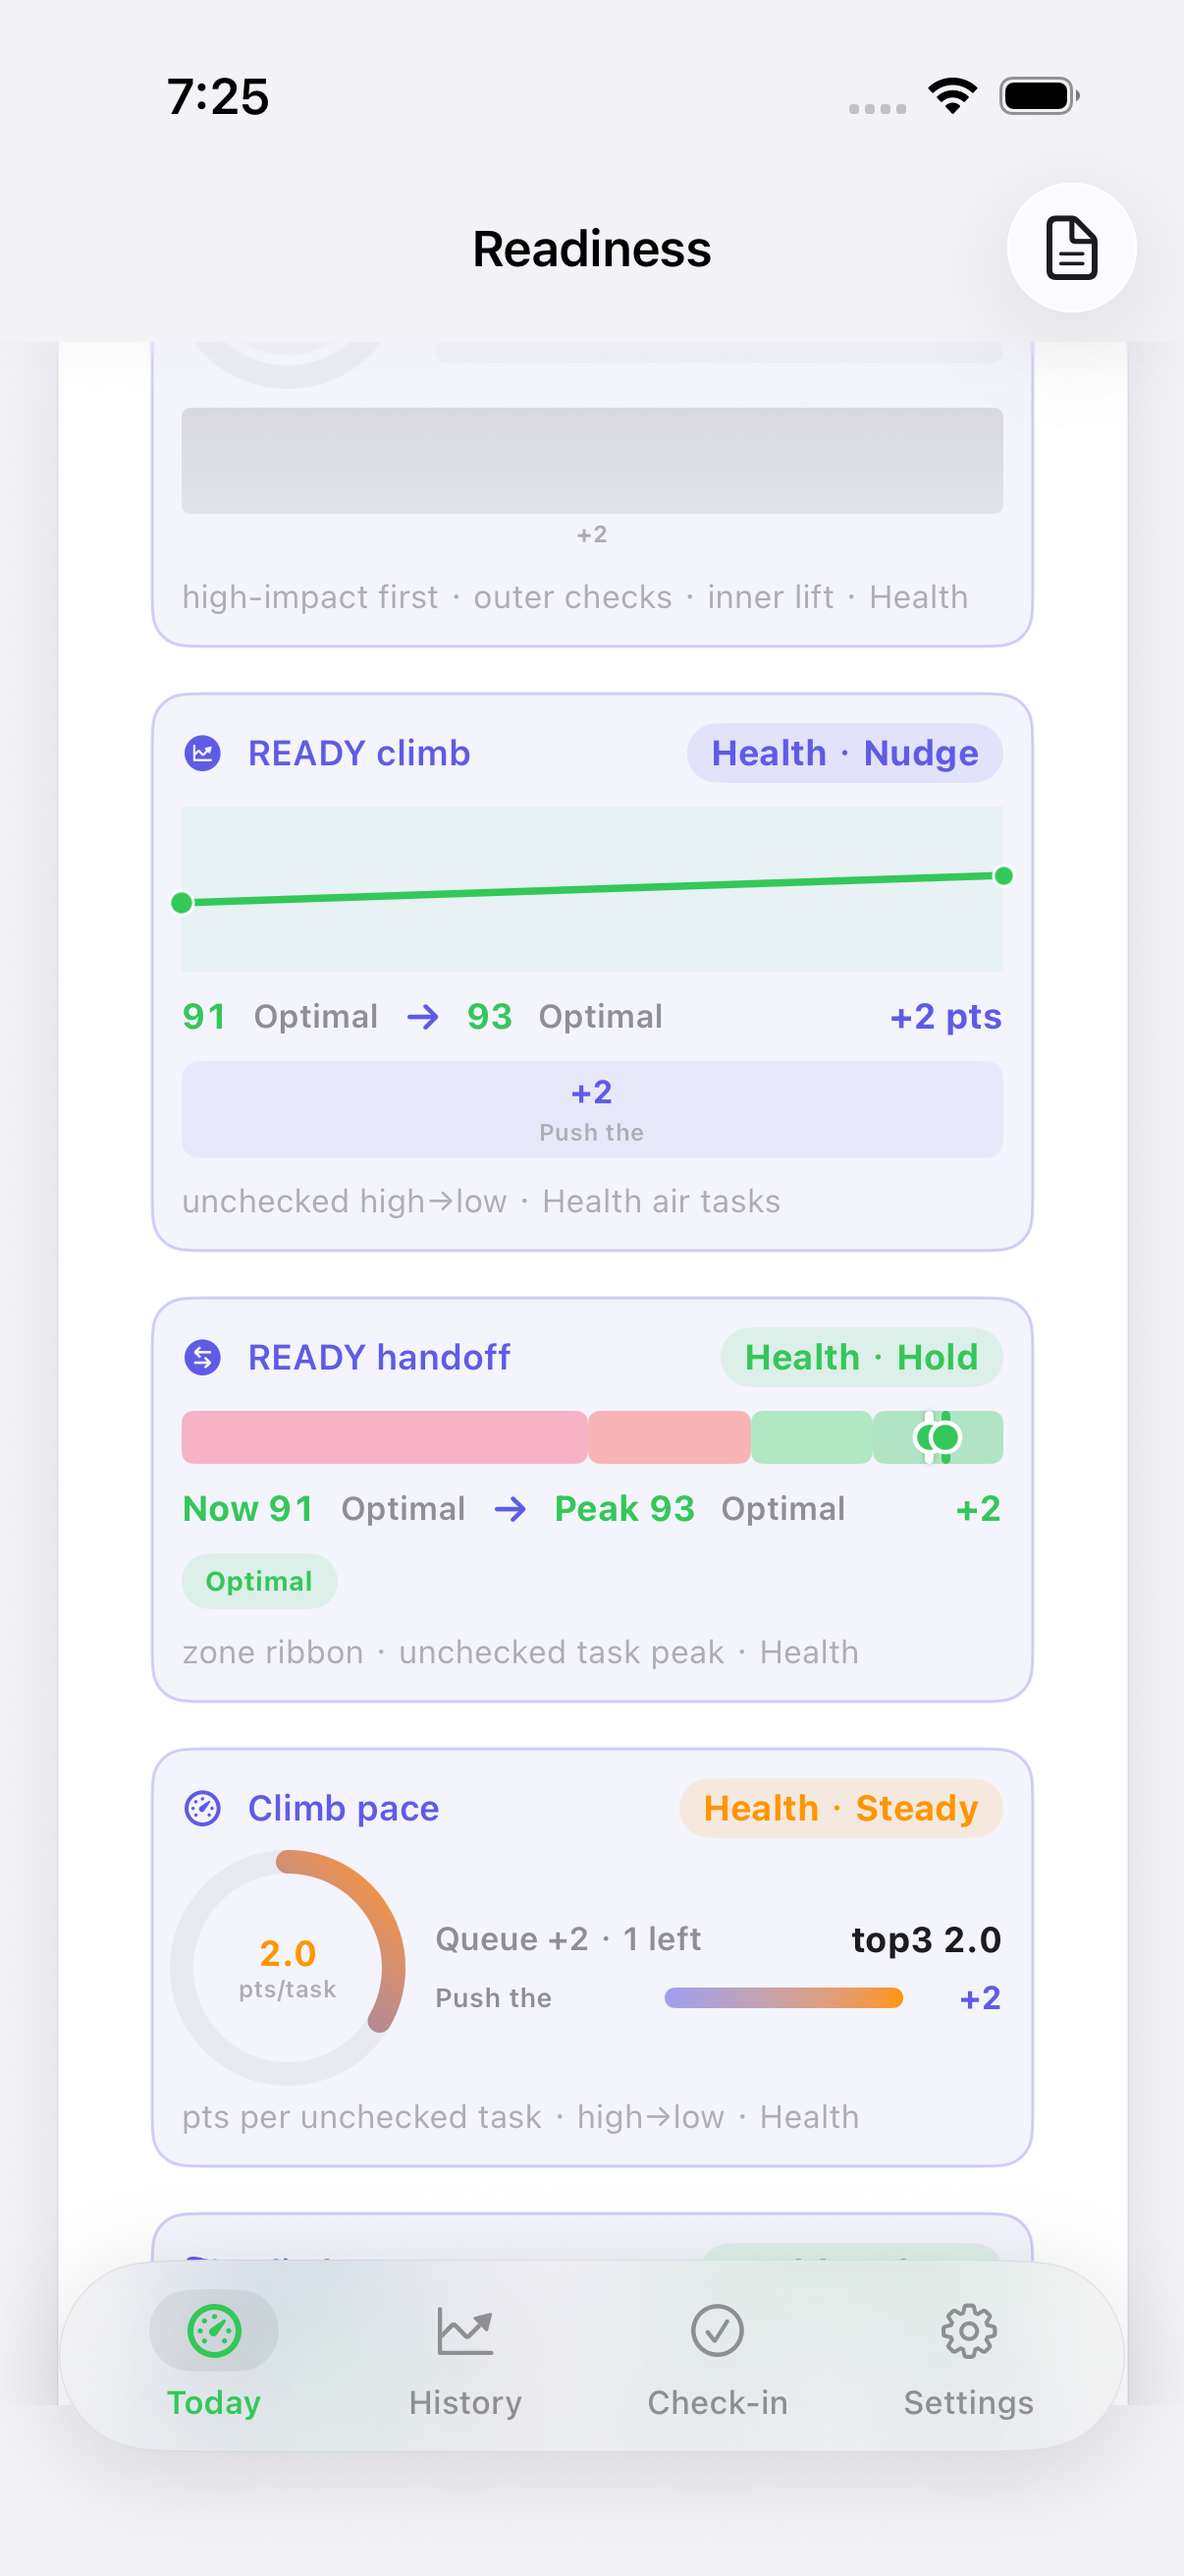
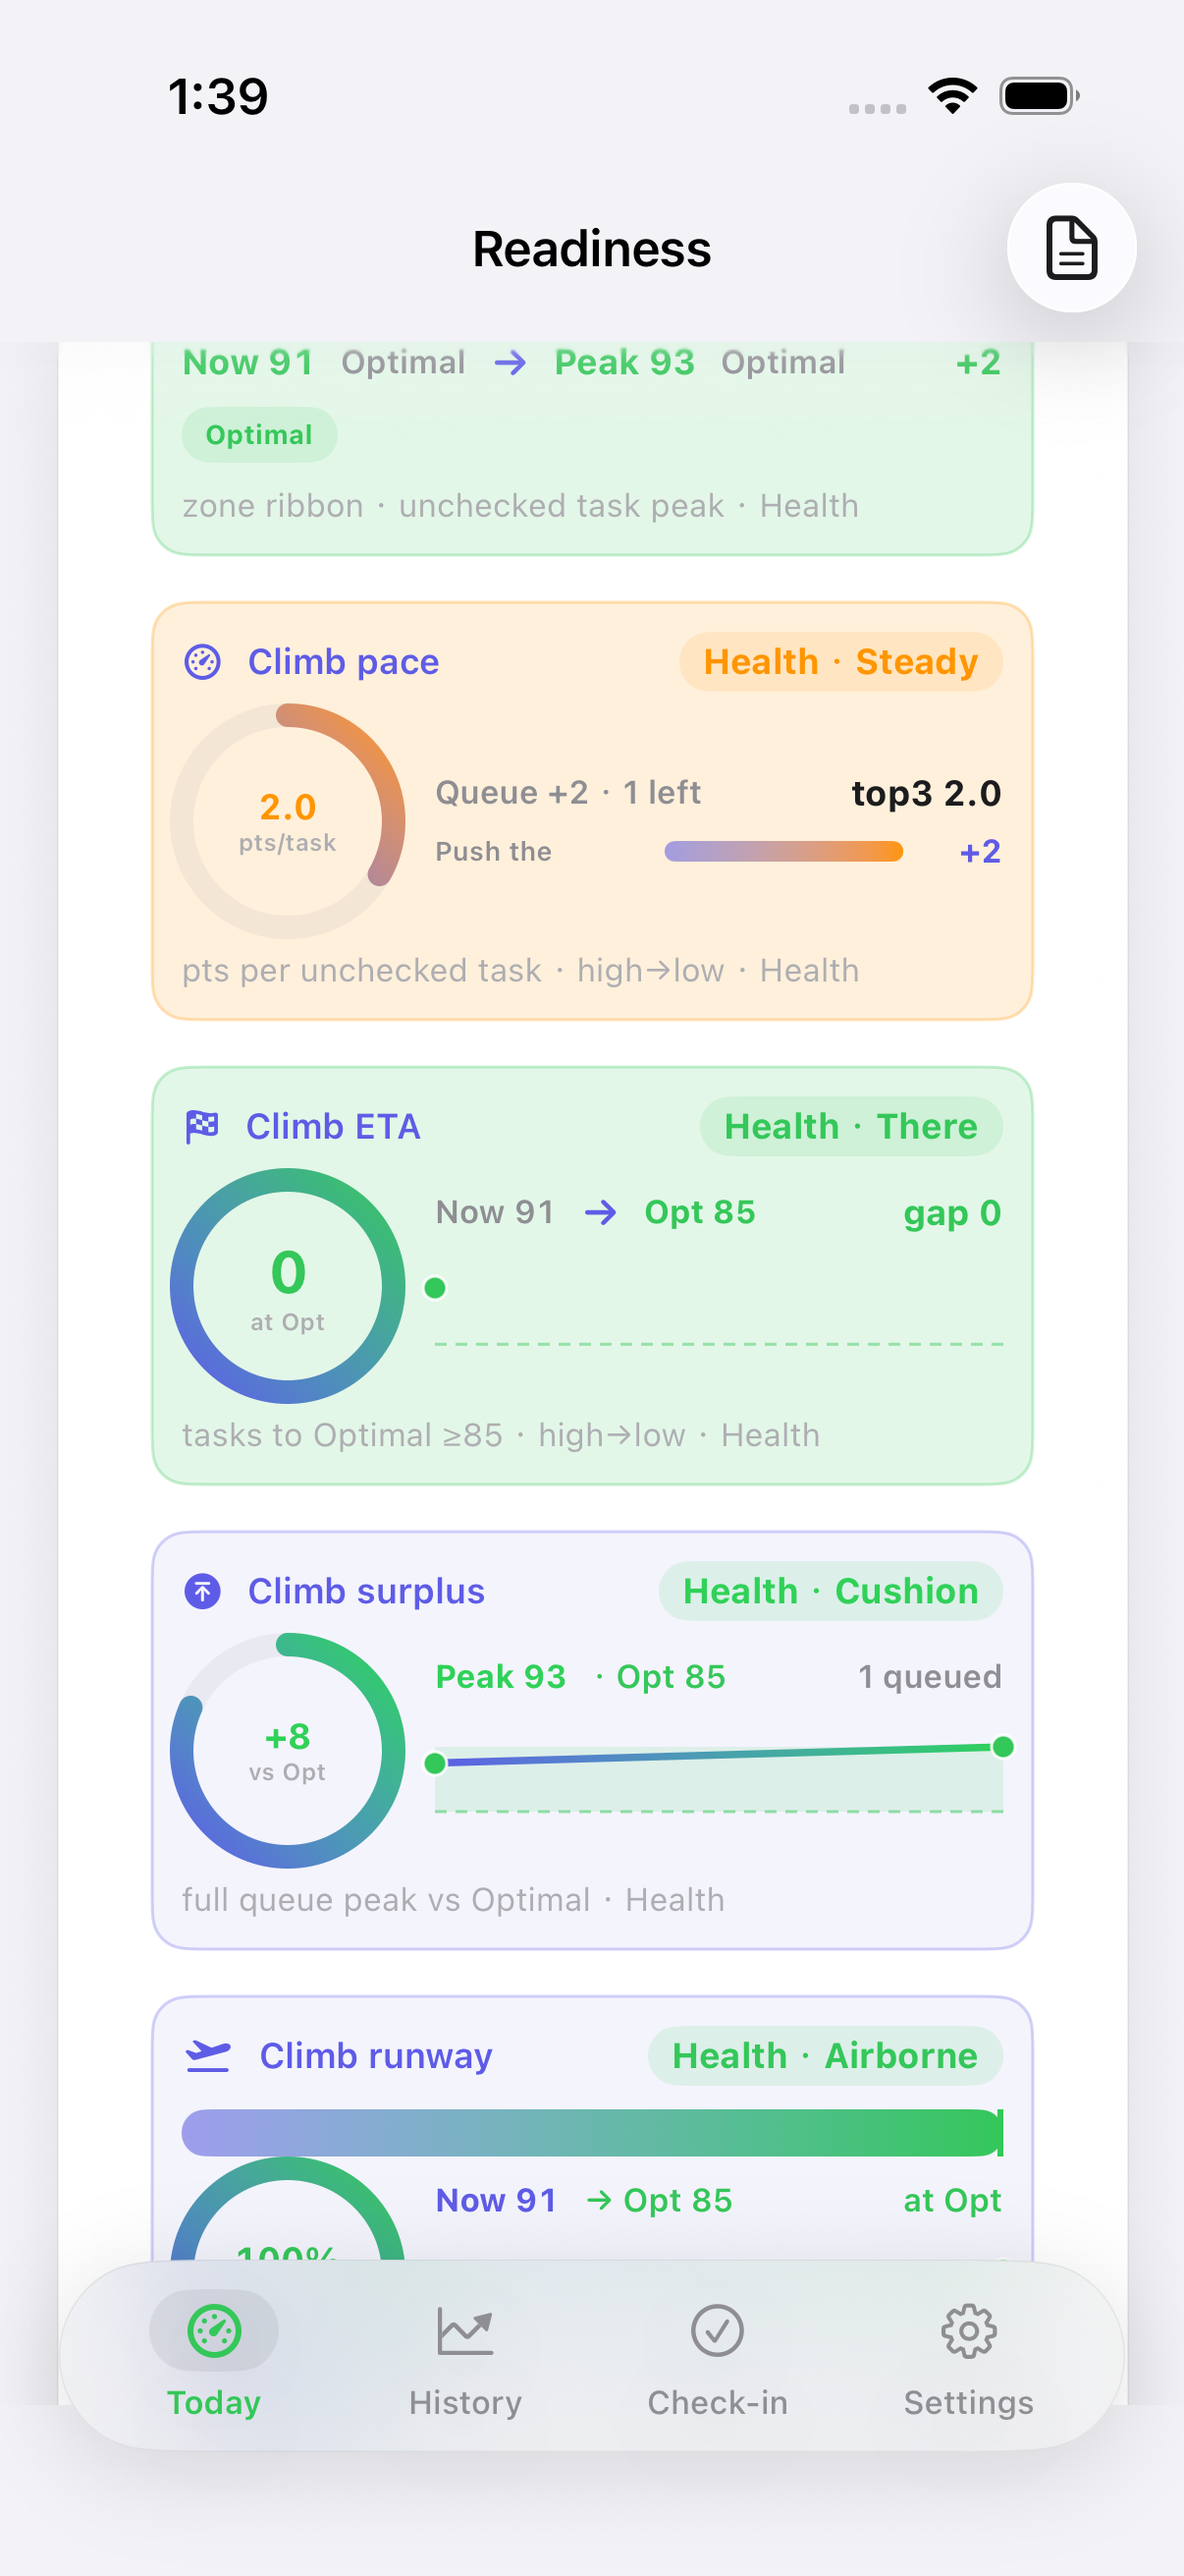
Honest #746: Simulator climb ETA (WHOOP wells) (#776)
Restyle the existing Simulator climb ETA dial (`sim.load.ready.climb.eta`, Honest #619) with WHOOP wells.

- Idle (Short / queue cannot reach Optimal ≥85): ghost/hairline 8%/28%
- Active (Queue / reached but need > 3): 14% fill + 28% hairline (caution)
- Soon (reached && need <= 3): 14% fill + 28% hairline (good)
- Next (reached && need <= 1) and There (already >= 85): 14% fill + 28% hairline (optimal); no new SurfaceID; no formula change

Proof: `testReadinessLoadSimulatorSurface` 775.666s, 0 failures; `.audit/verify-simulator-climb-eta.png`
model=deepseek-flash (mechanical pattern-copy of #745 wells)

Changed region(s): [[0.1227, 0.1236, 0.8897, 0.8959], [0.1534, 0.0309, 0.2148, 0.0618]]

diff --git a/ReadinessTracker/Views/WhoopFeatures/ReadinessLoadSimulatorCard.swift b/ReadinessTracker/Views/WhoopFeatures/ReadinessLoadSimulatorCard.swift
@@ -3940,7 +3940,7 @@ struct ReadinessLoadSimulatorCard: View {
         .animation(.easeInOut(duration: 0.25), value: projectedCoupled)
     }
 
-    /// Honest #619: READY climb ETA — unchecked tasks to Optimal (≥85) with cumulative spark (Fitbit/GH graphics).
+    /// Honest #619 / #746: READY climb ETA — unchecked tasks to Optimal (≥85) with cumulative spark (Fitbit/GH graphics; WHOOP wells).
     @ViewBuilder
     private var readyClimbETADial: some View {
         let pending = tasks.filter { !completedTaskIDs.contains($0.id) }.sorted { $0.readyDelta > $1.readyDelta }
@@ -3979,6 +3979,8 @@ struct ReadinessLoadSimulatorCard: View {
         } else {
             verb = "Short"; tone = RTColor.warning
         }
+        let climbEtaIsActive = (verb != "Short")
+        let wellTone: Color = climbEtaIsActive ? tone : RTColor.secondaryText
         let etaDisp = start >= target ? "0" : (reached ? "\(need)" : "\(pending.count)+")
         let lo = max(0, min(start, run, target) - 4)
         let hi = min(100, max(start, run, target) + 4)
@@ -4082,10 +4084,10 @@ struct ReadinessLoadSimulatorCard: View {
                 .foregroundStyle(RTColor.tertiaryText)
         }
         .padding(10)
-        .background(accent.opacity(0.07), in: RoundedRectangle(cornerRadius: 12, style: .continuous))
+        .background(wellTone.opacity(climbEtaIsActive ? 0.14 : 0.08), in: RoundedRectangle(cornerRadius: 12, style: .continuous))
         .overlay(
             RoundedRectangle(cornerRadius: 12, style: .continuous)
-                .stroke(accent.opacity(0.28), lineWidth: 1)
+                .stroke(wellTone.opacity(0.28), lineWidth: 1)
         )
         .accessibilityIdentifier(SurfaceID.readinessSimulatorClimbETA)
         .accessibilityLabel("Climb ETA \(verb) \(etaDisp) tasks")

diff --git a/ReadinessTracker/Design/Theme.swift b/ReadinessTracker/Design/Theme.swift
@@ -410,7 +410,7 @@ enum SurfaceID {
     static let readinessSimulatorReadyClimb = "sim.load.ready.climb"  // Honest #613 / #743
     static let readinessSimulatorReadyHandoff = "sim.load.ready.handoff"  // Honest #615 / #744
     static let readinessSimulatorClimbPace = "sim.load.ready.climb.pace"  // Honest #617 / #745
-    static let readinessSimulatorClimbETA = "sim.load.ready.climb.eta"  // Honest #619
+    static let readinessSimulatorClimbETA = "sim.load.ready.climb.eta"  // Honest #619 / #746
     static let readinessSimulatorClimbSurplus = "sim.load.ready.climb.surplus"  // Honest #621
     static let readinessSimulatorClimbRunway = "sim.load.ready.climb.runway"  // Honest #623
     static let readinessSimulatorClimbGlide = "sim.load.ready.climb.glide"  // Honest #626

diff --git a/ReadinessTrackerUITests/SurfacesUITests.swift b/ReadinessTrackerUITests/SurfacesUITests.swift
@@ -10878,7 +10878,7 @@ final class SurfacesUITests: XCTestCase {
         }
         saveShot("verify-simulator-climb-pace.png")
 
-        // Honest #619: READY climb ETA
+        // Honest #619 / #746: READY climb ETA (WHOOP wells)
         let climbETA = app.descendants(matching: .any)["sim.load.ready.climb.eta"].firstMatch
         XCTAssertTrue(climbETA.waitForExistence(timeout: 5)
                       || app.descendants(matching: .any)["sim.load.ready.climb.pace"].firstMatch.exists

diff --git a/.audit/decision-log-2026-11-04.md b/.audit/decision-log-2026-11-04.md
@@ -312,3 +312,9 @@
 
 | 00:42 HKT | #745 Simulator climb pace | prove | UITest suite green /tmp/RT-DD745 (765.994s, 0 failures; observer 777.873s); model=deepseek-flash |
 | 01:01 HKT | #745 Simulator climb pace | land | proof PNG + receipt; SID sim.load.ready.climb.pace; PR squash next; model=deepseek-flash |
+
+| 01:26 HKT | Honest #746 Simulator climb ETA | model=deepseek-flash | restyle existing sim.load.ready.climb.eta after climb pace #745; WHOOP ghost/active/Soon/Next/There wells; mechanical pattern-copy of #745 wells applied locally (no separate model iterate needed) | mid-ship |
+| 01:26 HKT | Honest #746 Simulator climb ETA | prove | started UITest /tmp/RT-DD746; model=deepseek-flash | mid-ship |
+
+| 01:45 HKT | #746 Simulator climb ETA | prove | UITest suite green /tmp/RT-DD746 (775.666s, 0 failures; observer 789.439s); model=deepseek-flash |
+| 01:45 HKT | #746 Simulator climb ETA | land | proof PNG + receipt; SID sim.load.ready.climb.eta; PR squash next; model=deepseek-flash |

diff --git a/.audit/features/readiness-simulator-climb-eta.md b/.audit/features/readiness-simulator-climb-eta.md
@@ -1,5 +1,6 @@
-# Honest #619: Simulator climb ETA
+# Honest #619 / #746: Simulator climb ETA (WHOOP wells)
 
 Unchecked tasks to Optimal ≥85 (There/Next/Soon/Queue/Short).
+Idle (Short / queue cannot reach Optimal ≥85) = ghost/hairline 8/28; active (Queue / reached but need > 3) = 14 fill + 28 hairline (caution); Soon (reached && need <= 3) = 14 fill + 28 hairline (good); Next (reached && need <= 1) and There (already >= 85) = 14 fill + 28 hairline (optimal).
 SurfaceID: `sim.load.ready.climb.eta`
 Proof: `.audit/verify-simulator-climb-eta.png`

diff --git a/.audit/sim-climb-eta.md b/.audit/sim-climb-eta.md
@@ -1,5 +1,6 @@
-# Honest #619: Simulator climb ETA
+# Honest #619 / #746: Simulator climb ETA (WHOOP wells)
 
 Unchecked tasks to Optimal ≥85 (There/Next/Soon/Queue/Short).
+Idle (Short / queue cannot reach Optimal ≥85) = ghost/hairline 8/28; active (Queue / reached but need > 3) = 14 fill + 28 hairline (caution); Soon (reached && need <= 3) = 14 fill + 28 hairline (good); Next (reached && need <= 1) and There (already >= 85) = 14 fill + 28 hairline (optimal).
 SurfaceID: `sim.load.ready.climb.eta`
 Proof: `.audit/verify-simulator-climb-eta.png`

diff --git a/.cursor/skills/verify-readiness-tracker/features/readiness-simulator-climb-eta.md b/.cursor/skills/verify-readiness-tracker/features/readiness-simulator-climb-eta.md
@@ -1,5 +1,6 @@
-# Honest #619: Simulator climb ETA
+# Honest #619 / #746: Simulator climb ETA (WHOOP wells)
 
 Unchecked tasks to Optimal ≥85 (There/Next/Soon/Queue/Short).
+Idle (Short / queue cannot reach Optimal ≥85) = ghost/hairline 8/28; active (Queue / reached but need > 3) = 14 fill + 28 hairline (caution); Soon (reached && need <= 3) = 14 fill + 28 hairline (good); Next (reached && need <= 1) and There (already >= 85) = 14 fill + 28 hairline (optimal).
 SurfaceID: `sim.load.ready.climb.eta`
 Proof: `.audit/verify-simulator-climb-eta.png`
